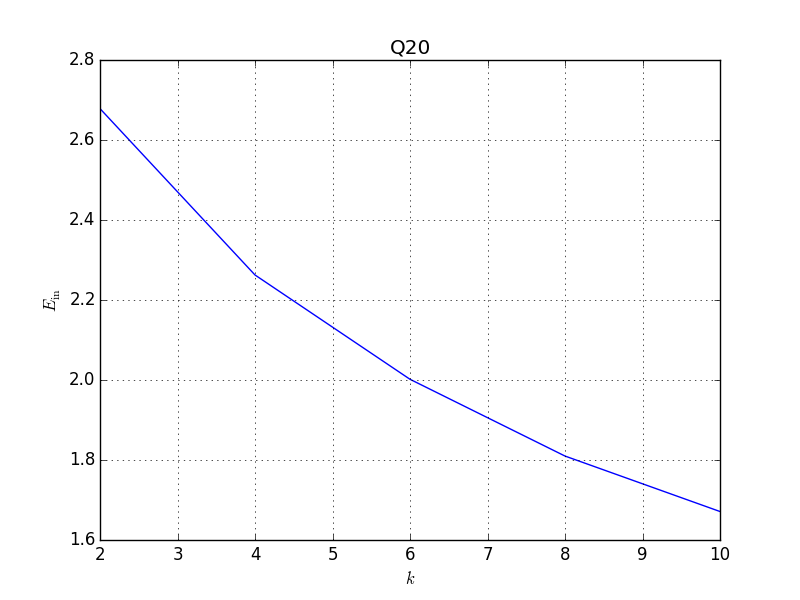
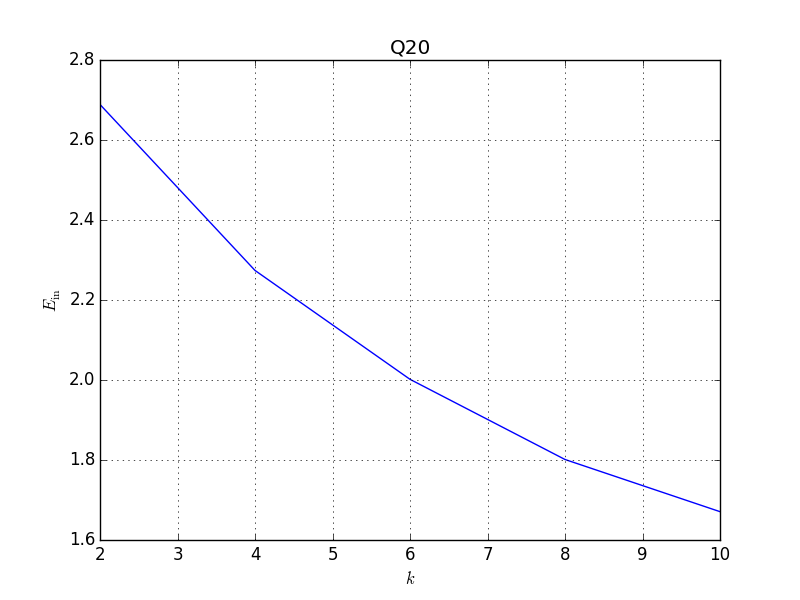
- HW8: 94% complete

diff --git a/Homework_8/ML_HW8_Programming/Q20/Q20.py b/Homework_8/ML_HW8_Programming/Q20/Q20.py
@@ -12,11 +12,11 @@ def sign(x):
 
 def kMeans(k, xData):
     grArr = []
+    oriGr = []
     muArr = xData[np.random.choice(xData.shape[0], k)]
     converge = False
     while not converge:
         grArr = []
-        oriMu = np.copy(muArr)
         # optimize S
         for x in xData:
             dtArr = []
@@ -25,6 +25,9 @@ def kMeans(k, xData):
             dtArr = np.array(dtArr)
             dtArr = dtArr[dtArr[:, 1].argsort()]
             grArr.append(dtArr[0][0])
+        if np.array_equal(oriGr, np.sort(grArr)):
+            converge = True
+        oriGr = np.copy(np.sort(grArr))
         grArr = np.column_stack((np.array(grArr), xData))
         grArr = grArr[grArr[:, 0].argsort()]
         # optimize mu
@@ -42,8 +45,6 @@ def kMeans(k, xData):
                 muTmp += grArr[row][range(1, grArr.shape[1])]
             if row == grArr.shape[0] - 1:
                 muArr[muIdx] = (muTmp / muNum)
-        if np.array_equal(muArr, oriMu):
-            converge = True
     return errCalc(muArr, grArr)
 
 
@@ -80,6 +81,7 @@ def main():
     eInList = []
     for k in kList:
         eIn = Parallel(n_jobs=num_cores)(delayed(kMeans)(k, xTra20) for i in range(REPEAT))
+        print "k =", k, "and Ein =", np.mean(eIn)
         eInList.append(np.mean(eIn))
 
     plotFig(kList, eInList, r"$k$", r'$E_{\mathrm{in}}$', "Q20", 1, False)
